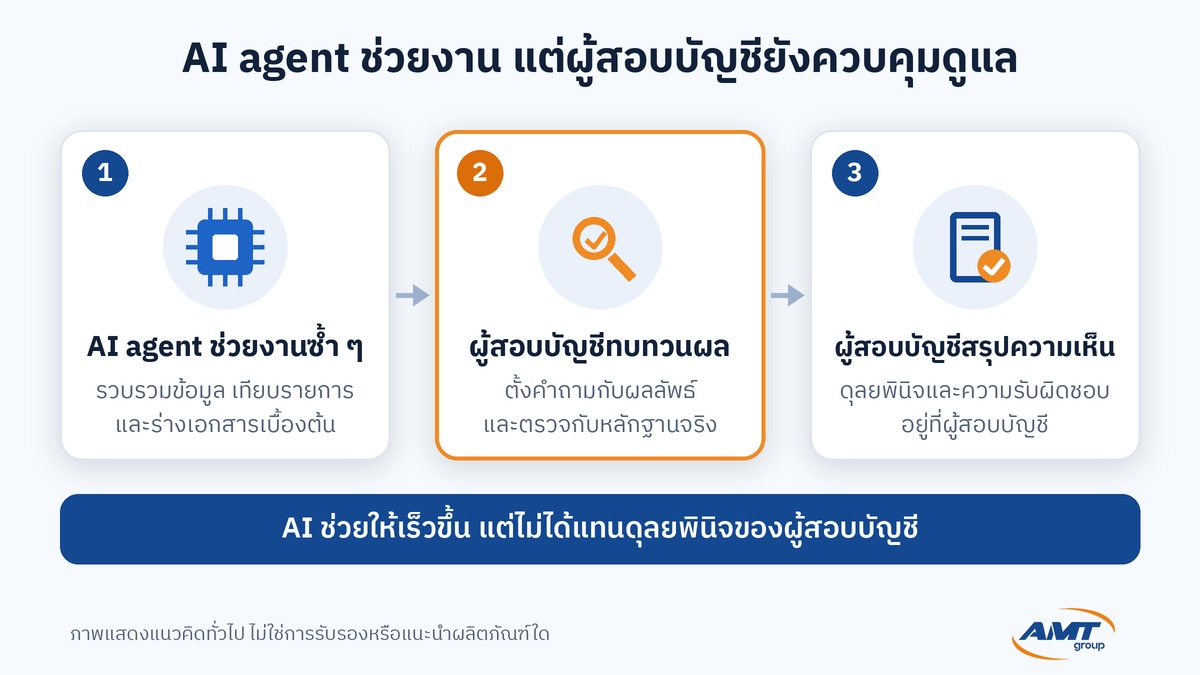
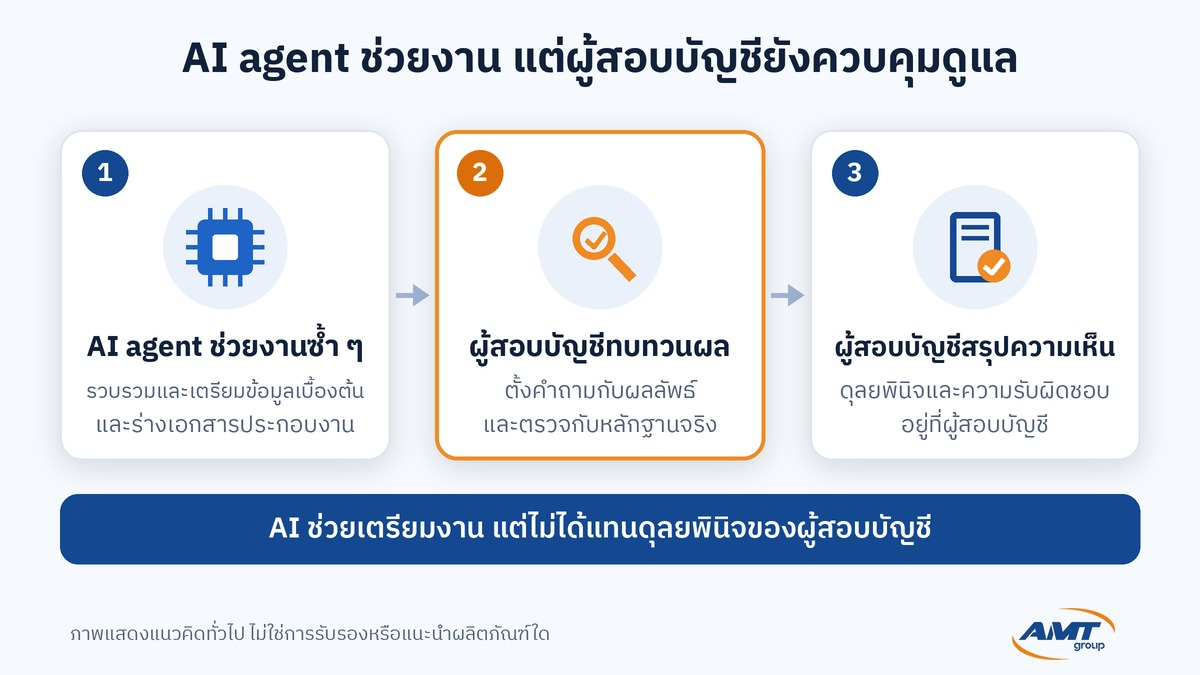
เปลี่ยนรูป inline ของบทความ AI agent เป็นชุดที่นักออกแบบแก้แล้ว
ใช้ inline-1.jpg และ inline-2.jpg ชุดใหม่ตำแหน่งเดิม และอัปเดต alt ของ inline-2

Changed region(s): [[0.2158, 0.7467, 0.7708, 0.8089], [0.0617, 0.56, 0.3083, 0.6533]]

diff --git a/articles/ai-agent-audit-news/index.html b/articles/ai-agent-audit-news/index.html
@@ -174,7 +174,7 @@ table.compare tbody th{font-weight:600;color:var(--blue);background:#F7FAFE}
 </div></section>
 <section><div class="wrap prose"><h2>ตัวเชื่อมต่อ (connector) ของ AuditFile สำหรับ Claude ทำอะไรได้บ้าง?</h2>
 <p>ตามข่าว AuditFile เปิดตัวตัวเชื่อมต่อที่ให้ Claude (ผู้ช่วย AI ของ Anthropic) อ่านข้อมูลงานสอบบัญชีในแพลตฟอร์ม AuditFile ได้แบบอ่านอย่างเดียว ผู้สอบบัญชีล็อกอิน AuditFile ตามปกติแล้วถามเป็นภาษาธรรมดา เช่น งานใดครบกำหนดเดือนนี้ งบทดลองเปลี่ยนจากปีก่อนอย่างไร หรือข้อสังเกตจากการสอบทานข้อใดยังเปิดค้างอยู่</p>
-<img class="fig" src="/articles/ai-agent-audit-news/inline-2.jpg" width="1200" height="675" alt="ภาพประกอบข้อมูลบัญชีของลูกค้า (กองสมุดบัญชี) เชื่อมกับ AI agent ผ่าน connector ไปยังหน้าจอแล็ปท็อป โดยมีแม่กุญแจและผู้สอบบัญชีตรวจทาน" loading="lazy">
+<img class="fig" src="/articles/ai-agent-audit-news/inline-2.jpg" width="1200" height="675" alt="ภาพประกอบข้อมูลบัญชีของลูกค้า (กองสมุดบัญชี) เชื่อมกับ AI agent ผ่าน connector ไปยังหน้าจอแล็ปท็อป โดยทำงานภายใต้สิทธิ์ของผู้ใช้ที่ล็อกอิน และผู้ดูแลระบบของสำนักงานควบคุมการเข้าถึง" loading="lazy">
 <p>รายละเอียดที่ข่าวระบุ</p>
 <ul>
 <li><strong>ขอบเขตข้อมูล:</strong> อ่านได้ 21 มุมมองของข้อมูลงาน เช่น งานและความคืบหน้า ขั้นตอนพร้อมสถานะการลงนาม งบทดลอง รายการปรับปรุง ข้อตรวจพบ ข้อมูลกระดาษทำการ และบันทึกการสอบทาน</li>
